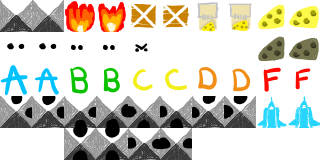
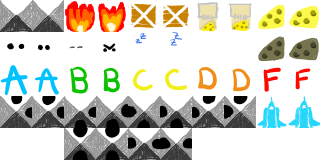
🐭🧀 Cheese now makes the rat fall asleep and the cat is back to being the main character hunting the rat.

diff --git a/src/player.js b/src/player.js
@@ -1,3 +1,5 @@
+var ratSleep = false;
+
 // Function to move the cat and the rat
 function moveCatNRat(_dir){
   // Check for Game Over
@@ -8,10 +10,10 @@ function moveCatNRat(_dir){
   var tRat = { x: rat.x, y: rat.y };
 
   // WASD movement (tRat always does opposite of tCat)
-  if(_dir == dir.UP){ tCat.y++; tRat.y--; }     // Move tCat up
-  if(_dir == dir.LEFT){ tCat.x++; tRat.x--; }   // Move tCat left
-  if(_dir == dir.DOWN){ tCat.y--; tRat.y++; }   // Move tCat down
-  if(_dir == dir.RIGHT){ tCat.x--; tRat.x++; }  // Move tCat right
+  if(_dir == dir.UP){ tCat.y--; if(!ratSleep){ tRat.y++; } }     // Move tCat up
+  if(_dir == dir.LEFT){ tCat.x--; if(!ratSleep){ tRat.x++; } }   // Move tCat left
+  if(_dir == dir.DOWN){ tCat.y++; if(!ratSleep){ tRat.y--; } }   // Move tCat down
+  if(_dir == dir.RIGHT){ tCat.x++; if(!ratSleep){ tRat.x--; } }  // Move tCat right
 
   // Wrap tCat & tRat around the map
   var pe = tCat;
@@ -170,6 +172,10 @@ function moveCatNRat(_dir){
         if(e.x == tRat.x && e.y == tRat.y){
           score++;
           entities.splice(_i, 1);
+          if(score >= activeLevel.par){
+            ratSleep = true;
+            rat.sprite = sprites.RAT_SLEEP;
+          }
         }
         if(e.x == tCat.x && e.y == tCat.y){ halt[0] = true; }
         break;
@@ -186,14 +192,14 @@ function moveCatNRat(_dir){
     // Check if they're swapping positions...
     (tCat.x == rat.x && tCat.y == rat.y && tRat.x == cat.x && tRat.y == cat.y)
   ){
-    kill[1] = true;
+    goal = true;
   }
 
   // Move the cat and rat
   if(!halt[0]){ cat.x = tCat.x; cat.y = tCat.y; }
   if(!halt[1]){ rat.x = tRat.x; rat.y = tRat.y; }
 
-  if(rat.x == cat.x && rat.y == cat.y){ kill[1] = true; }
+  if(rat.x == cat.x && rat.y == cat.y){ goal = true; }
 
   if(goal && !kill[0] && !kill[1]){
     // LEVEL PASSED!!

diff --git a/src/level.js b/src/level.js
@@ -19,6 +19,7 @@ function clearLevel(){
 
 function loadLevel(_dat = undefined){
   score = 0;
+  ratSleep = false;
 
   if(_dat != undefined)
     activeLevel = JSON.parse(String(_dat));
@@ -98,25 +99,23 @@ function drawLevel(){
   }
 
   if(rat != -1){
-    // Select the alternate sprite when 2nd image flag is raised
-    var eSpriteX = rat.sprite[0];
-    if(rat.bop){ eSpriteX++; };
-
     // Draw the sprite at the entity position
     context.drawImage(tiles[0],
-      eSpriteX*TILE_SIZE, rat.sprite[1]*TILE_SIZE, TILE_SIZE, TILE_SIZE,
+      rat.sprite[0]*TILE_SIZE, rat.sprite[1]*TILE_SIZE, TILE_SIZE, TILE_SIZE,
       rat.x * TILE_SIZE, rat.y * TILE_SIZE, TILE_SIZE, TILE_SIZE
     );
+    if(ratSleep){
+      context.drawImage(tiles[0],
+        sprites.ZZZ[0]*TILE_SIZE + ((rat.bop)?32:0), sprites.ZZZ[1]*TILE_SIZE, TILE_SIZE, TILE_SIZE,
+        rat.x * TILE_SIZE, rat.y * TILE_SIZE, TILE_SIZE, TILE_SIZE
+      );
+    }
   }
 
   if(cat != -1){
-    // Select the alternate sprite when 2nd image flag is raised
-    var eSpriteX = cat.sprite[0];
-    if(cat.bop){ eSpriteX++; };
-
     // Draw the sprite at the entity position
     context.drawImage(tiles[0],
-      eSpriteX*TILE_SIZE, cat.sprite[1]*TILE_SIZE, TILE_SIZE, TILE_SIZE,
+      cat.sprite[0]*TILE_SIZE, cat.sprite[1]*TILE_SIZE, TILE_SIZE, TILE_SIZE,
       cat.x * TILE_SIZE, cat.y * TILE_SIZE, TILE_SIZE, TILE_SIZE
     );
   }

diff --git a/src/constants.js b/src/constants.js
@@ -17,7 +17,9 @@ const modes = {
 
 const sprites = {
   CAT: [0, 1],
-  RAT: [2, 1],
+  RAT: [1, 1],
+  RAT_SLEEP: [2, 1],
+  ZZZ: [4, 1],
   WALL: [0, 0],
   KILL: [2, 0],
   PUSH: [4, 0],

diff --git a/README.md b/README.md
@@ -2,18 +2,18 @@
   <img src="https://github.com/ZaidMade/CatRat/raw/master/logo.gif" alt="CatRat" title="CatRat">
 </div>
 
-*A turn and grid based maze game where you play as Captain Squeakers, a rodent space pirate traveling the galaxy to steal as much cheese as they can. The board is a grid 16x12 cells in size. You move Captain Squeakers using WASD controls in rogue-like turn based movement and the cat moves in the opposite direction. If Captain Squeakers and the cat touch, the cat will eat the Captain. Captain Squeakers is a pacifist and will not fight back. If Captain Squeakers dies, the level will be failed.*
+*A turn and grid based maze game where you play as a cat hunting down a rat. The board is a grid 16x12 cells in size. You move the cat using WASD controls in rogue-like turn based movement and the rat moves in the opposite direction. If the rat and the cat touch, the cat will eat the rat. If either the cat or the rat (without being eaten) dies, the level will be failed.*
 
 ## To Do
 ### Mechanics 🛠
 * [X] __WALL__: Stops the cat and the rat from moving into the same cell as it.
 * [X] __KILL__: Kills the cat or the rat if one of them are in the same cell as it.
 * [X] __PUSH__: A wall entity that can be pushed by the cat but not by the rat.
-* [ ] __GATE&KEY__: A wall cell that is deleted when a linked key entity is brought to it.
+* [ ] __YARN__: A yarn ball the cat can push but the rat cannot. The ball can only be pushed 3 times and each time it leaves a trail of yarn behind it which the rat cannot pass.
 * [X] __MOUSEHOLE__: A wall block with a small hole in it the rat can pass through but the cat cannot.
 * [X] __RATTRAP__: A trap which only kills the rat, not the cat. Can be set off by the cat to destroy it.
-* [X] __CHEESE__: Actual cheese blocks to collect.
-* [X] __SHIP__: The goal that Captain Squeakers will return to after stealing cheese.
+* [X] __CHEESE__: Cells which can be eaten by the rat but stop the cat. If the rat eats enough cheese, it will fall asleep.
+* [X] ~~__SHIP__: The goal that Captain Squeakers will return to after stealing cheese.~~
 
 ### Screens 📺
 * [X] __Level__: The actual game. (Pause menu should be included here. Keep it to just exiting the level.)
